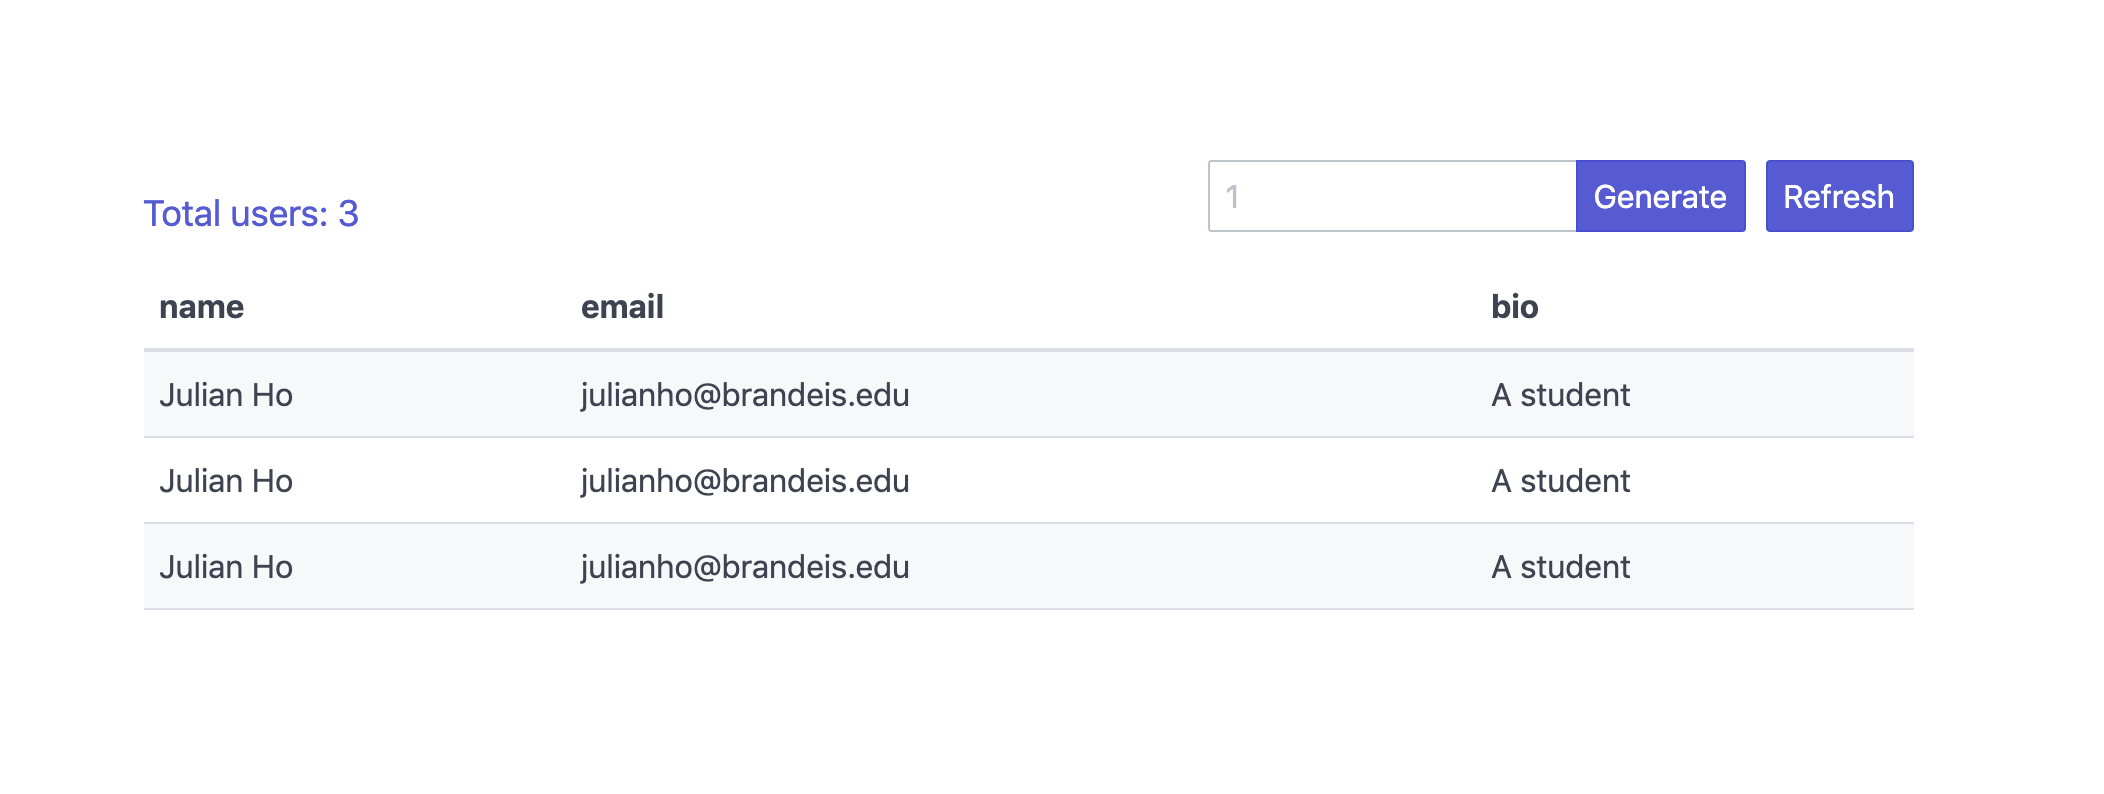
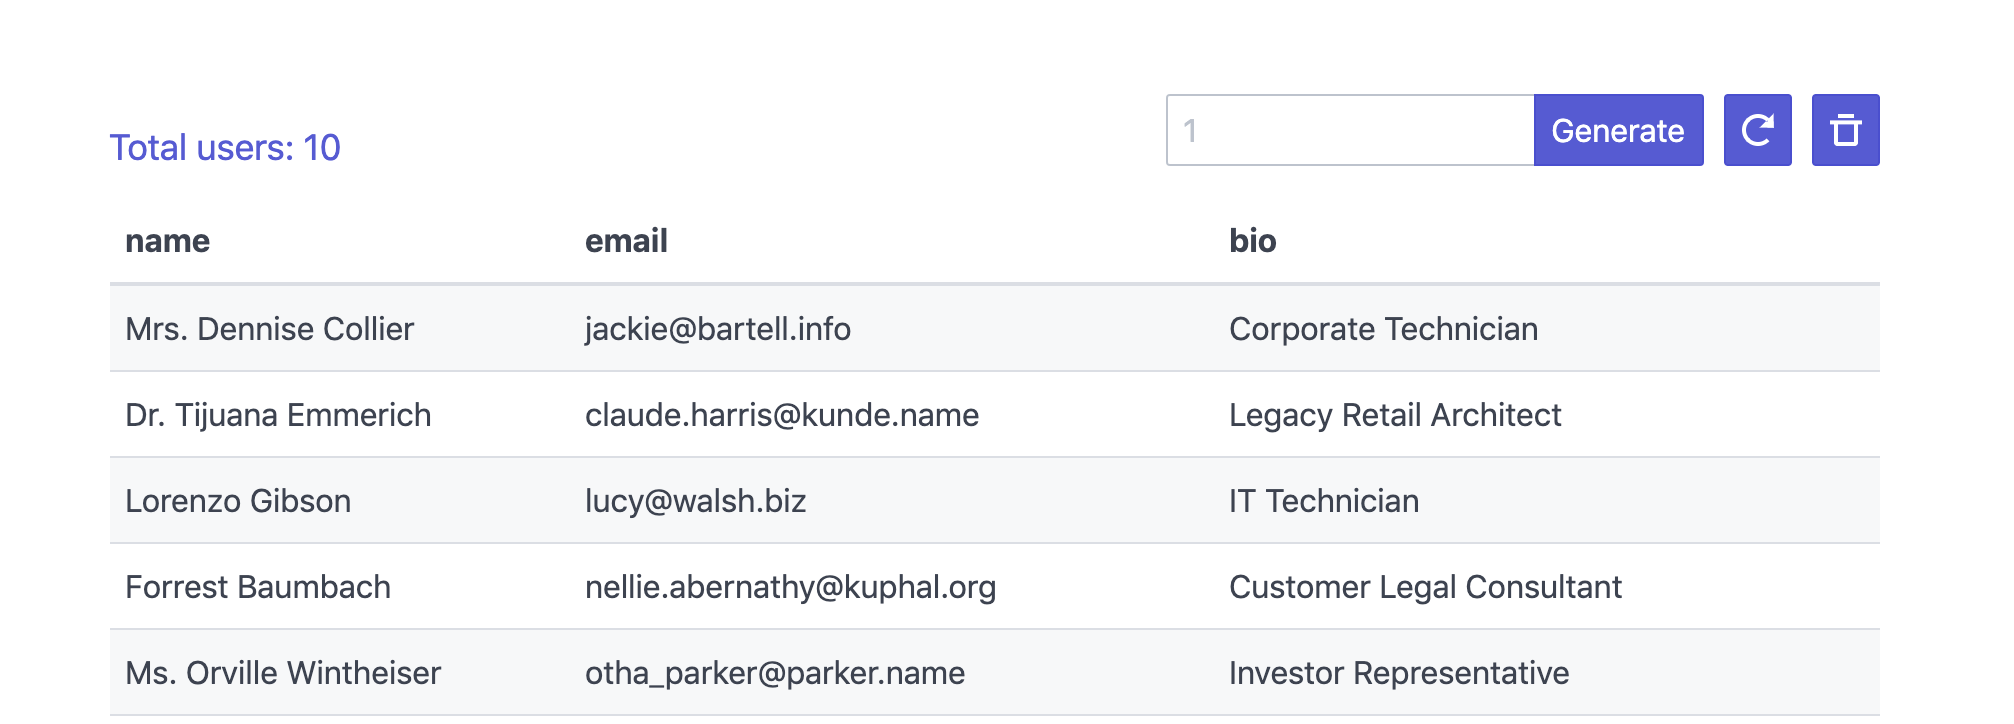
update frontend requirements

diff --git a/service-api-sinatra/app.rb b/service-api-sinatra/app.rb
@@ -10,6 +10,11 @@ end
 
 # Create n users.
 post '/users' do
-  count = params[:n] || 1
+  count = params[:n].to_i || 1
+  'Implement me!'
+end
+
+# Delete all users.
+post '/users/destroy' do
   'Implement me!'
 end

diff --git a/docs/sinatra.md b/docs/sinatra.md
@@ -39,9 +39,14 @@ rake db:migrate DB_HOST=$DB_HOST DB_PASSWORD=$DB_PASSWORD RACK_ENV=development
   - This route is responsible for creating fake users in the database
   - It should take a query parameter `n` which denotes the number of users to be created
   - If no parameter was given, create 1 user.
-  - Returns a `200 OK` back to the caller if it was successful
-  - Returns a `400 Bad Request` if the caller requests more than 30!
+  - Returns a `200 OK` if it was successful
+  - Returns a `400 Bad Request` if requested more than 30!
   - Hint: use [faker](https://github.com/faker-ruby/faker) to generate random data
+
+- Implement `POST /users/destroy`
+  - This route is responsible for removing every user in the database if called.
+  - Returns a `200 OK` if it was successful
+  - Returns a `500 Internal Error` if it failed
 
 ## Step 3 - Implement Frontend
 
@@ -56,7 +61,9 @@ Homepage
   - A "generate" button that send a `POST` request to `http://API_HOST/users` for generating more users.
   - A "refresh" button for getting the current user table
     - `<a href="/">Refresh</a>`
-- Hint: use `Net::HTTP.get` to call your service API
+  - A "destroy" button for removing all the user in the database
+    - Does a `POST` to `http://API_HOST/users/destroy`
+- Hint: use `Net::HTTP.get` or `xhttp` to call your service API
 
 ## Step 4 - Running locally
 

diff --git a/docs/cicd.md b/docs/cicd.md
@@ -2,6 +2,10 @@
 
 It is cumbersome to have to ssh into your droplets to update your app everything. We want to be able to just push the code, and the app will be updated automagically.
 
+## Prerequisites
+
+- You must complete part 1 and 2 first
+
 ## Step 1 - Setup Github Actions file
 
 We are going to use Github Actions to setup our continuous deployment pipeline.
@@ -106,5 +110,13 @@ git push
 You should see the pipeline running under `Actions`
 
 ![pipeline](images/pipeline.png)
+
+Once it finish you should be able to see the updated site at http://frontend-sinatra/
+
+**To see the logs of any of your apps**
+
+```bash
+doctl compute ssh service-api-sinatra --ssh-command "journalctl -u rails.service -e -f"
+```
 
 ### **Congrats! You now have a auto-deploying pipeline!** 🎉
